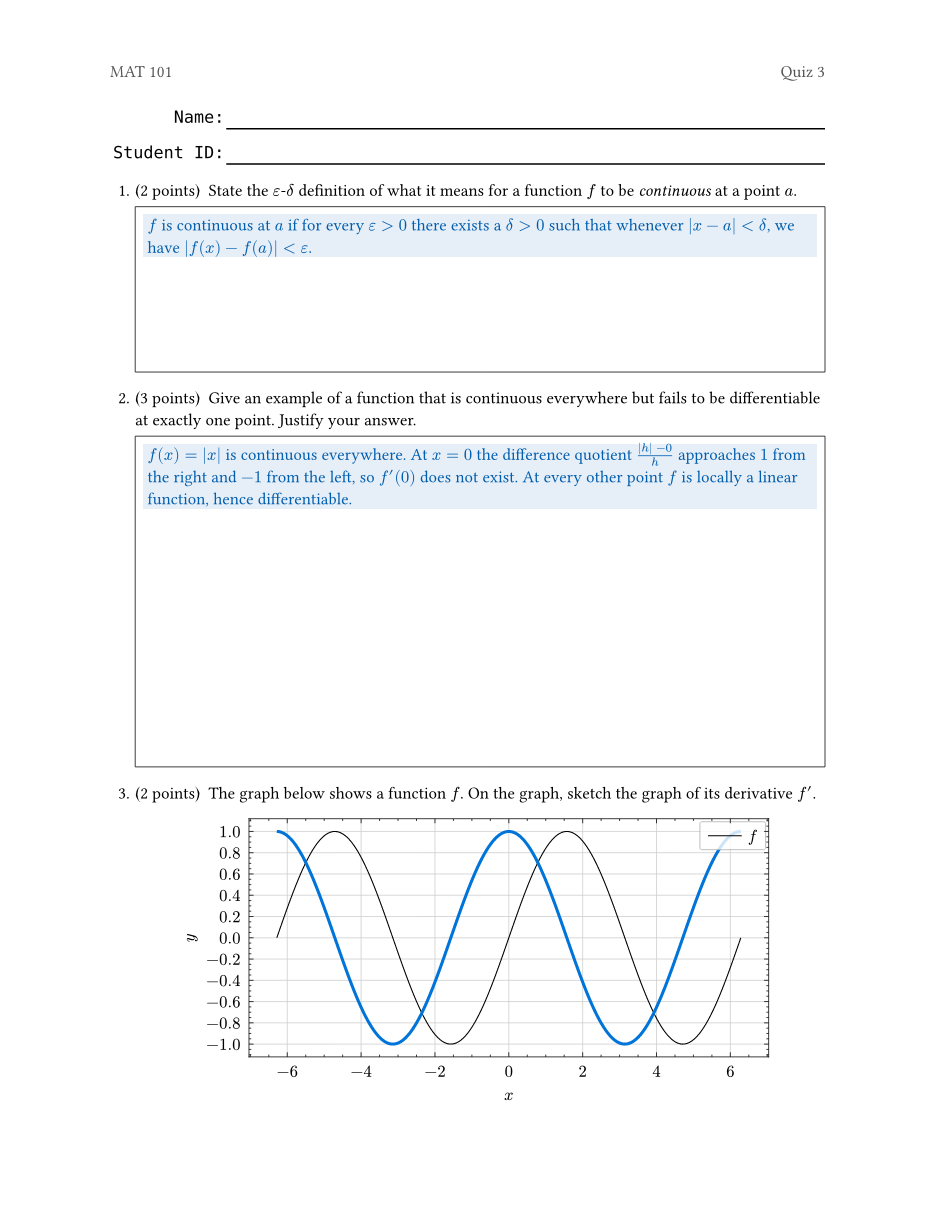
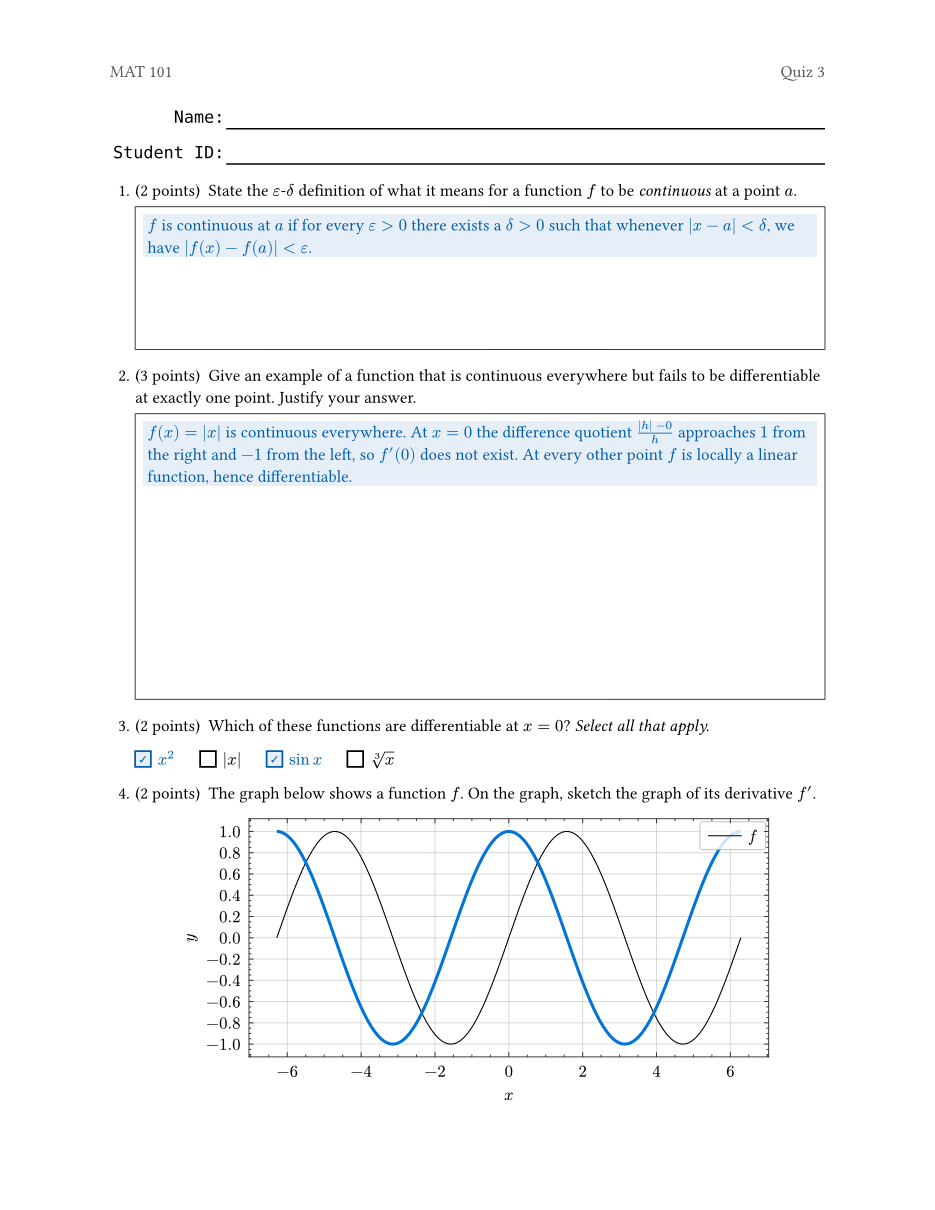
Version bump

Changed region(s): [[0.1241, 0.3058, 0.8995, 0.4281], [0.1241, 0.581, 0.5273, 0.6421], [0.6203, 0.581, 0.7444, 0.6116]]

diff --git a/README.md b/README.md
@@ -6,7 +6,7 @@ cross-references, and solutions that can be toggled on and off. This package
 follows the spirit of the [exam class for LaTeX](https://ctan.org/pkg/exam?lang=en).
 
 <p align="center">
-  <img src="examples/images/quiz.png" width="45%" alt="A quiz with empty answer boxes">
+  <img src="examples/images/quiz.png" width="45%" alt="A quiz with empty answer boxes and multiple-choice bubbles">
   <img src="examples/images/quiz-solutions.png" width="45%" alt="The same quiz compiled with solutions shown">
 </p>
 <p align="center"><em><a href="examples/quiz.typ">examples/quiz.typ</a>, compiled without and with solutions.</em></p>
@@ -16,7 +16,7 @@ See [examples/](examples/) for usage examples.
 ## Quick start
 
 ```typst
-#import "@preview/examy:0.3.0": *
+#import "@preview/examy:0.4.0": *
 
 #show: e.prepare()
 #show: e.set_(config, show-solutions: false)
@@ -281,7 +281,7 @@ See
 [examples/multiple-choice.typ](examples/multiple-choice.typ)
 
 ```typst
-#import "@preview/examy:0.3.0": *
+#import "@preview/examy:0.4.0": *
 
 // A small page, so the screenshot stays readable; drop it for a full page.
 #set page(width: 11cm, height: auto, margin: 6mm)
@@ -443,7 +443,7 @@ use.
 ## API Reference
 
 <!-- API-DOCS-START — autogenerated by make_docs.sh from the elembic declarations and the DOCS constants in src/; do not edit by hand -->
-All names below are exported by `#import "@preview/examy:0.3.0": *`.
+All names below are exported by `#import "@preview/examy:0.4.0": *`.
 
 ### `question(body, points: none, intent: none, solution: none, rubric: none, number: auto, indent: 1.5em, label: none)`
 
@@ -622,7 +622,7 @@ The following commands are useful for development.
 # TYPST_PACKAGE_PATH (CI does the same and compiles a smoke-test document
 # against the vendored package). Requires --tag=<TAG> or --no-tag — see
 # below and `./make_dist.sh` with no arguments for why.
-./make_dist.sh --tag=v0.3.0   # or: ./make_dist.sh --no-tag
+./make_dist.sh --tag=v0.4.0   # or: ./make_dist.sh --no-tag
 ```
 
 ### Making a release
@@ -631,13 +631,13 @@ The following commands are useful for development.
    imports, and the dist layout all derive from it.
 2. Commit, tag, and push:
    ```bash
-   git commit -am "Release v0.3.0"
-   git tag v0.3.0
-   git push && git push origin v0.3.0
+   git commit -am "Release v0.4.0"
+   git tag v0.4.0
+   git push && git push origin v0.4.0
    ```
    The tag needs to already be on GitHub before the next step, since the
    README's links are rewritten to permalinks pinned at it.
-3. Run `./make_dist.sh --tag=v0.3.0` (matching the tag from step 2). If the
+3. Run `./make_dist.sh --tag=v0.4.0` (matching the tag from step 2). If the
    tests and validation pass, it produces `dist/examy/<version>/` containing
    the package exactly as it should be published (example imports rewritten
    to `@preview/examy:<version>`, this Development section stripped from
